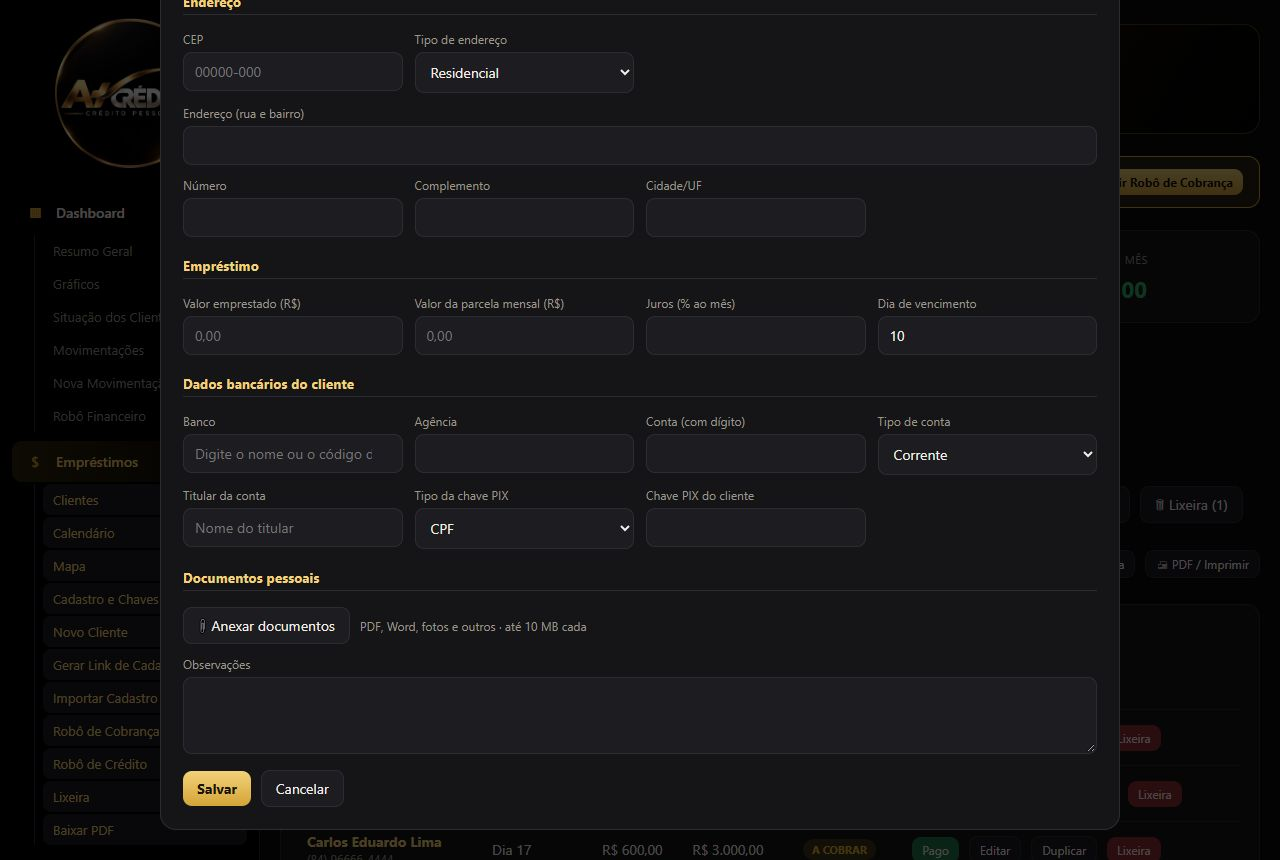
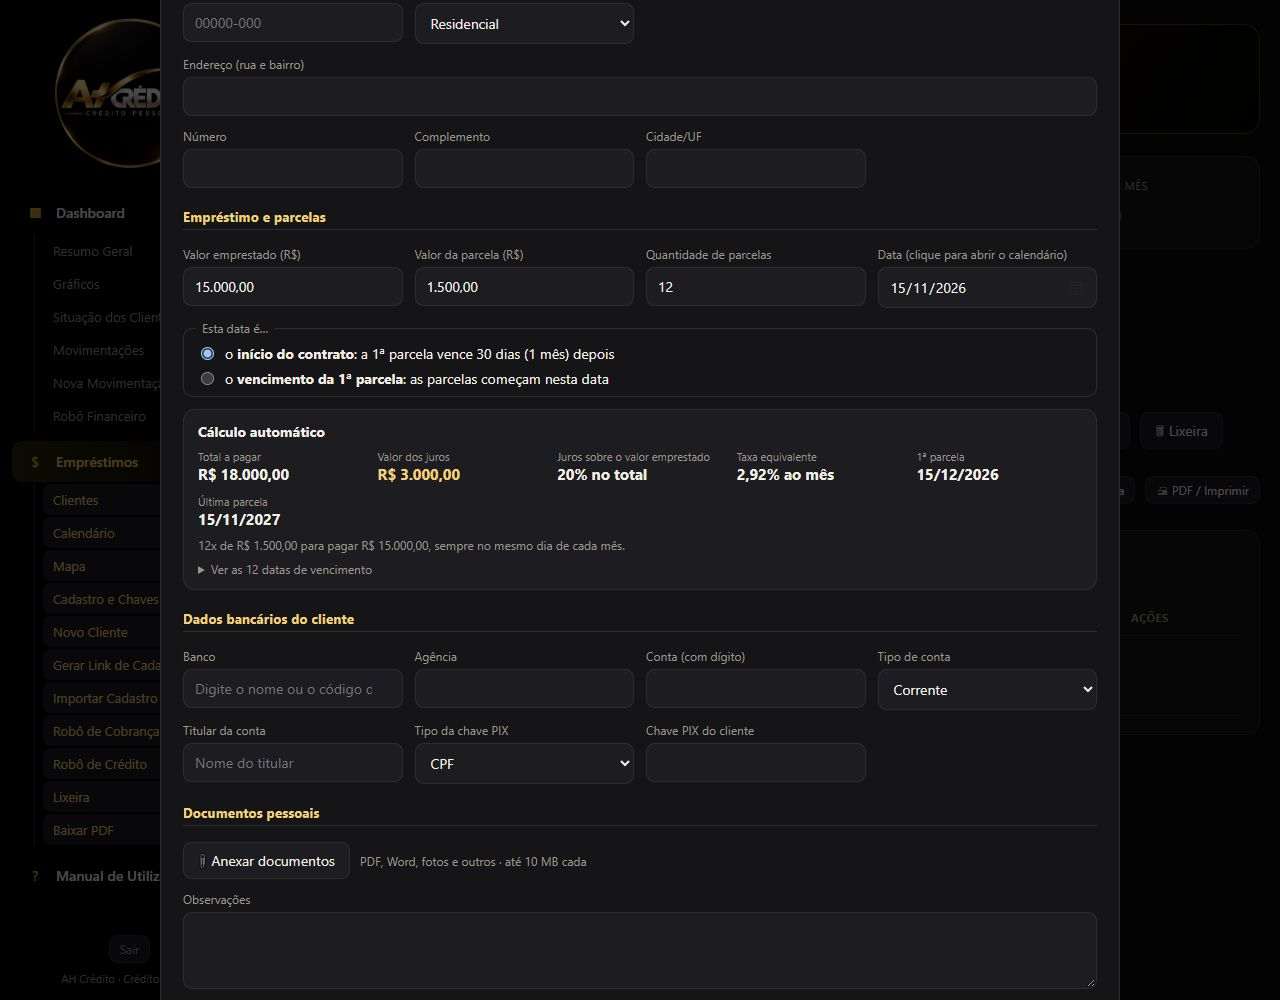
Novo Cliente: quantidade de parcelas, calendário e juros automáticos (componente compartilhado)

diff --git a/src/components/Clientes.jsx b/src/components/Clientes.jsx
@@ -1,12 +1,13 @@
 import { useRef, useState } from 'react'
 import { BancoInput, CepField, Field, Modal, MoneyInput, StatusBadge, ZapLinks } from './ui'
 import { Documentos, ListaDocs, SeletorArquivos, enviarVarios, useDocumentos } from './Documentos'
+import { OpcoesData, PainelCalculo, useCalculo } from './Parcelamento'
 import { useStore } from '../lib/store'
 import { brl, fmtData, moedaCampo, parseMoeda, statusDe, uid } from '../lib/utils'
 
 const VAZIO = {
   nome: '', rg: '', email: '', telefone: '', cpf: '', cep: '', endereco: '', numero: '', complemento: '', cidade: '', tipoEndereco: 'Residencial',
-  valorEmprestado: '', valorParcela: '', jurosPct: '', diaVencimento: '10',
+  valorEmprestado: '', valorParcela: '', jurosPct: '', diaVencimento: '10', parcelas: '', dataBase: '', modoData: 'inicio',
   banco: '', agencia: '', conta: '', tipoConta: 'Corrente', titularConta: '', tipoChavePix: 'CPF', chavePix: '', obs: '',
 }
 const TIPOS_PIX = ['CPF', 'CNPJ', 'Telefone', 'E-mail', 'Aleatória']
@@ -15,7 +16,16 @@ export function DebtorForm({ inicial, onClose }) {
   const { addDebtor, updateDebtor } = useStore()
   const idRef = useRef(inicial?.id || uid())
   const salvoRef = useRef(Boolean(inicial?.id))
-  const [f, setF] = useState(inicial ? { ...VAZIO, ...inicial, valorEmprestado: moedaCampo(inicial.valorEmprestado), valorParcela: moedaCampo(inicial.valorParcela) } : VAZIO)
+  const [f, setF] = useState(inicial
+    ? {
+        ...VAZIO, ...inicial,
+        valorEmprestado: moedaCampo(inicial.valorEmprestado), valorParcela: moedaCampo(inicial.valorParcela),
+        parcelas: inicial.parcelas ? String(inicial.parcelas) : '',
+        dataBase: inicial.dataContrato || inicial.primeiroVencimento || '',
+        modoData: inicial.dataContrato ? 'inicio' : 'parcela',
+      }
+    : VAZIO)
+  const calc = useCalculo({ valor: f.valorEmprestado, parcela: f.valorParcela, n: f.parcelas, data: f.dataBase, modo: f.modoData })
   const [arquivos, setArquivos] = useState([])
   const [enviando, setEnviando] = useState('')
   const [erro, setErro] = useState('')
@@ -27,12 +37,24 @@ export function DebtorForm({ inicial, onClose }) {
   const salvar = async (e) => {
     e.preventDefault()
     setErro('')
+    const temParcelamento = Boolean(f.parcelas || f.dataBase)
+    if (temParcelamento && !calc) return setErro('Para calcular as parcelas, preencha valor emprestado, valor da parcela, quantidade de parcelas e a data (ou apague a quantidade e a data para cadastrar sem parcelamento).')
+    if (temParcelamento && calc.semJuros) return setErro('As parcelas somam menos que o valor emprestado. Confira o valor da parcela.')
+    const { dataBase, modoData, ...resto } = f
     const d = {
-      ...f,
+      ...resto,
       valorEmprestado: parseMoeda(f.valorEmprestado),
       valorParcela: parseMoeda(f.valorParcela),
-      jurosPct: num(f.jurosPct),
-      diaVencimento: Math.min(31, Math.max(1, parseInt(f.diaVencimento) || 1)),
+      ...(temParcelamento
+        ? {
+            parcelas: calc.n, jurosPct: calc.taxaMes, diaVencimento: Number(calc.primeira.slice(8, 10)),
+            primeiroVencimento: calc.primeira, ultimoVencimento: calc.ultima, totalAPagar: calc.total,
+            valorJuros: calc.juros, jurosPctTotal: calc.jurosPctTotal, dataContrato: calc.inicio,
+          }
+        : {
+            parcelas: null, primeiroVencimento: null, ultimoVencimento: null, totalAPagar: null, valorJuros: null, jurosPctTotal: null, dataContrato: null,
+            jurosPct: num(f.jurosPct), diaVencimento: Math.min(31, Math.max(1, parseInt(f.diaVencimento) || 1)),
+          }),
     }
     if (salvoRef.current) updateDebtor(idRef.current, d)
     else { addDebtor({ ...d, id: idRef.current }); salvoRef.current = true }
@@ -65,11 +87,20 @@ export function DebtorForm({ inicial, onClose }) {
           <Field label="Complemento"><input value={f.complemento} onChange={set('complemento')} /></Field>
           <Field label="Cidade/UF"><input value={f.cidade} onChange={set('cidade')} /></Field>
 
-          <h4 className="full sec">Empréstimo</h4>
+          <h4 className="full sec">Empréstimo e parcelas</h4>
           <Field label="Valor emprestado (R$)"><MoneyInput value={f.valorEmprestado} onChange={(v) => setF((x) => ({ ...x, valorEmprestado: v }))} /></Field>
-          <Field label="Valor da parcela mensal (R$)"><MoneyInput value={f.valorParcela} onChange={(v) => setF((x) => ({ ...x, valorParcela: v }))} /></Field>
-          <Field label="Juros (% ao mês)"><input inputMode="decimal" value={f.jurosPct} onChange={set('jurosPct')} /></Field>
-          <Field label="Dia de vencimento"><input type="number" min="1" max="31" value={f.diaVencimento} onChange={set('diaVencimento')} /></Field>
+          <Field label="Valor da parcela (R$)"><MoneyInput value={f.valorParcela} onChange={(v) => setF((x) => ({ ...x, valorParcela: v }))} /></Field>
+          <Field label="Quantidade de parcelas"><input type="number" min="1" max="120" inputMode="numeric" placeholder="Ex.: 12" value={f.parcelas} onChange={set('parcelas')} /></Field>
+          <Field label="Data (clique para abrir o calendário)"><input type="date" value={f.dataBase} onChange={set('dataBase')} /></Field>
+          <div className="full"><OpcoesData modo={f.modoData} onChange={(m) => setF((x) => ({ ...x, modoData: m }))} nome="modoDataCliente" /></div>
+          <div className="full"><PainelCalculo calc={calc} /></div>
+          {!(f.parcelas || f.dataBase) && (
+            <>
+              <Field label="Dia de vencimento"><input type="number" min="1" max="31" value={f.diaVencimento} onChange={set('diaVencimento')} /></Field>
+              <Field label="Juros (% ao mês)"><input inputMode="decimal" value={f.jurosPct} onChange={set('jurosPct')} /></Field>
+              <div className="muted full" style={{ fontSize: 12 }}>Sem parcelamento: informe o dia do vencimento e os juros à mão. Ao preencher a quantidade de parcelas e a data, o vencimento e os juros são calculados sozinhos.</div>
+            </>
+          )}
 
           <h4 className="full sec">Dados bancários do cliente</h4>
           <Field label="Banco"><BancoInput value={f.banco} onChange={(v) => setF((x) => ({ ...x, banco: v }))} /></Field>

diff --git a/src/components/GerarLink.jsx b/src/components/GerarLink.jsx
@@ -1,13 +1,11 @@
-import { useMemo, useState } from 'react'
+import { useState } from 'react'
 import { Field, Modal, MoneyInput, ZapLinks } from './ui'
 import { api } from '../lib/api'
 import { msgCadastro } from '../lib/cadastro'
 import { useStore } from '../lib/store'
 import { brl, fmtData, parseMoeda } from '../lib/utils'
 import { baixarModelo, lerPlanilha } from '../lib/planilha'
-import { calcular } from '../../shared/parcelas'
-
-const pct = (n) => `${String(n).replace('.', ',')}%`
+import { OpcoesData, PainelCalculo, useCalculo } from './Parcelamento'
 
 export default function GerarLink({ onClose }) {
   const [f, setF] = useState({ valor: '', parcela: '', n: '', data: '', modo: 'inicio' })
@@ -17,10 +15,7 @@ export default function GerarLink({ onClose }) {
   const [gerando, setGerando] = useState(false)
   const set = (k) => (e) => setF((x) => ({ ...x, [k]: e.target.value }))
 
-  const calc = useMemo(
-    () => calcular({ valor: parseMoeda(f.valor), parcela: parseMoeda(f.parcela), n: f.n, data: f.data, modo: f.modo }),
-    [f],
-  )
+  const calc = useCalculo({ valor: f.valor, parcela: f.parcela, n: f.n, data: f.data, modo: f.modo })
   const pronto = Boolean(calc) && !calc.semJuros
 
   const gerar = async (e) => {
@@ -54,36 +49,8 @@ export default function GerarLink({ onClose }) {
           <Field label="Data *  (clique para abrir o calendário)">
             <input type="date" value={f.data} onChange={set('data')} required />
           </Field>
-          <fieldset className="opcoes">
-            <legend>Esta data é…</legend>
-            <label><input type="radio" name="modo" checked={f.modo === 'inicio'} onChange={() => setF((x) => ({ ...x, modo: 'inicio' }))} /> o <b>início do contrato</b>: a 1ª parcela vence 30 dias (1 mês) depois</label>
-            <label><input type="radio" name="modo" checked={f.modo === 'parcela'} onChange={() => setF((x) => ({ ...x, modo: 'parcela' }))} /> o <b>vencimento da 1ª parcela</b>: as parcelas começam nesta data</label>
-          </fieldset>
-
-          <div className="calc" aria-live="polite">
-            <b>Cálculo automático</b>
-            {!calc && <div className="muted">Preencha valor, parcela, quantidade e data para ver o total, os juros e as datas.</div>}
-            {calc && calc.semJuros && <div className="neg">As parcelas somam menos que o valor emprestado. Confira o valor da parcela.</div>}
-            {calc && !calc.semJuros && (
-              <>
-                <div className="calc-grade">
-                  <div><small className="muted">Total a pagar</small><b>{brl(calc.total)}</b></div>
-                  <div><small className="muted">Valor dos juros</small><b className="gold">{brl(calc.juros)}</b></div>
-                  <div><small className="muted">Juros sobre o valor emprestado</small><b>{pct(calc.jurosPctTotal)} no total</b></div>
-                  <div><small className="muted">Taxa equivalente</small><b>{pct(calc.taxaMes)} ao mês</b></div>
-                  <div><small className="muted">1ª parcela</small><b>{fmtData(calc.primeira)}</b></div>
-                  <div><small className="muted">Última parcela</small><b>{fmtData(calc.ultima)}</b></div>
-                </div>
-                <div className="muted" style={{ fontSize: 12 }}>{calc.n}x de {brl(calc.parcela)} para pagar {brl(calc.valor)}, sempre no mesmo dia de cada mês.</div>
-                <details>
-                  <summary className="muted" style={{ cursor: 'pointer', fontSize: 12 }}>Ver as {calc.n} datas de vencimento</summary>
-                  <ol className="datas">
-                    {calc.datas.map((d, i) => <li key={d}>{i + 1}ª · {fmtData(d)} · {brl(calc.parcela)}</li>)}
-                  </ol>
-                </details>
-              </>
-            )}
-          </div>
+          <OpcoesData modo={f.modo} onChange={(m) => setF((x) => ({ ...x, modo: m }))} />
+          <PainelCalculo calc={calc} />
 
           {erro && <div className="neg" role="alert">{erro}</div>}
           <button className="btn primary" disabled={gerando || !pronto} style={{ justifyContent: 'center', padding: 11 }}>{gerando ? 'Gerando…' : 'Gerar Novo Link'}</button>

diff --git a/src/components/Parcelamento.jsx b/src/components/Parcelamento.jsx
@@ -1,0 +1,54 @@
+import { useMemo } from 'react'
+import { calcular } from '../../shared/parcelas'
+import { brl, fmtData, parseMoeda } from '../lib/utils'
+
+export const pct = (n) => `${String(n).replace('.', ',')}%`
+
+/** Cálculo do parcelamento a partir dos campos de texto da tela (valor e parcela em formato brasileiro). */
+export function useCalculo({ valor, parcela, n, data, modo }) {
+  return useMemo(
+    () => calcular({ valor: parseMoeda(valor), parcela: parseMoeda(parcela), n, data, modo }),
+    [valor, parcela, n, data, modo],
+  )
+}
+
+/** Escolha do que a data do calendário significa. */
+export function OpcoesData({ modo, onChange, nome = 'modo' }) {
+  return (
+    <fieldset className="opcoes">
+      <legend>Esta data é…</legend>
+      <label><input type="radio" name={nome} checked={modo === 'inicio'} onChange={() => onChange('inicio')} /><span>o <b>início do contrato</b>: a 1ª parcela vence 30 dias (1 mês) depois</span></label>
+      <label><input type="radio" name={nome} checked={modo === 'parcela'} onChange={() => onChange('parcela')} /><span>o <b>vencimento da 1ª parcela</b>: as parcelas começam nesta data</span></label>
+    </fieldset>
+  )
+}
+
+/** Painel "Cálculo automático": total, juros, taxa e datas. */
+export function PainelCalculo({ calc }) {
+  return (
+    <div className="calc" aria-live="polite">
+      <b>Cálculo automático</b>
+      {!calc && <div className="muted">Preencha valor emprestado, valor da parcela, quantidade de parcelas e a data para ver o total, os juros e as datas.</div>}
+      {calc && calc.semJuros && <div className="neg">As parcelas somam menos que o valor emprestado. Confira o valor da parcela.</div>}
+      {calc && !calc.semJuros && (
+        <>
+          <div className="calc-grade">
+            <div><small className="muted">Total a pagar</small><b>{brl(calc.total)}</b></div>
+            <div><small className="muted">Valor dos juros</small><b className="gold">{brl(calc.juros)}</b></div>
+            <div><small className="muted">Juros sobre o valor emprestado</small><b>{pct(calc.jurosPctTotal)} no total</b></div>
+            <div><small className="muted">Taxa equivalente</small><b>{pct(calc.taxaMes)} ao mês</b></div>
+            <div><small className="muted">1ª parcela</small><b>{fmtData(calc.primeira)}</b></div>
+            <div><small className="muted">Última parcela</small><b>{fmtData(calc.ultima)}</b></div>
+          </div>
+          <div className="muted" style={{ fontSize: 12 }}>{calc.n}x de {brl(calc.parcela)} para pagar {brl(calc.valor)}, sempre no mesmo dia de cada mês.</div>
+          <details>
+            <summary className="muted" style={{ cursor: 'pointer', fontSize: 12 }}>Ver as {calc.n} datas de vencimento</summary>
+            <ol className="datas">
+              {calc.datas.map((d, i) => <li key={d}>{i + 1}ª · {fmtData(d)} · {brl(calc.parcela)}</li>)}
+            </ol>
+          </details>
+        </>
+      )}
+    </div>
+  )
+}

diff --git a/src/pages/manualDados.js b/src/pages/manualDados.js
@@ -112,13 +112,16 @@ export const CAPITULOS = [
       'Clique em Novo Cliente (ou use o submenu Novo Cliente).',
       'Em Dados pessoais, preencha o nome (obrigatório), CPF, RG, telefone/WhatsApp e e-mail.',
       'Em Endereço, digite o CEP: ao completar os 8 números, o sistema busca sozinho a rua, o bairro e a cidade. Complete o número e o complemento.',
-      'Em Empréstimo, informe valor emprestado, valor da parcela mensal, juros (% ao mês) e o dia de vencimento. Nos valores em reais, digite só os números: 1000 vira 1.000,00.',
+      'Em Empréstimo e parcelas, informe o valor emprestado, o valor da parcela e a quantidade de parcelas. Nos valores em reais, digite só os números: 1000 vira 1.000,00.',
+      'Clique no campo Data para abrir o calendário e escolha o dia. Marque se a data é o início do contrato (a 1ª parcela vence 1 mês depois) ou o vencimento da 1ª parcela.',
+      'O quadro "Cálculo automático" mostra, sem você digitar nada: total a pagar, valor dos juros, juros em % no total, taxa ao mês, 1ª e última parcela e todas as datas. Exemplo: R$ 15.000,00 em 12x de R$ 1.500,00 dá total de R$ 18.000,00, juros de R$ 3.000,00 (20%) e cerca de 2,92% ao mês. O dia do vencimento também é definido sozinho.',
+      'Se o cliente não tem parcelamento fixo, deixe a quantidade e a data em branco: aparecem os campos Dia de vencimento e Juros (% ao mês) para preencher à mão.',
     ],
     imagens: [
       ['08-novo-cliente-dados.jpg', 'Formulário de novo cliente: dados pessoais e endereço'],
       ['09-novo-cliente-emprestimo.jpg', 'Formulário de novo cliente: seção Empréstimo'],
     ],
-    dica: 'Se o CEP não for encontrado, o sistema avisa e você preenche o endereço à mão.',
+    dica: 'Se o CEP não for encontrado, o sistema avisa e você preenche o endereço à mão. Se as parcelas somarem menos que o valor emprestado, o sistema avisa e não salva até você corrigir.',
   },
   {
     id: 'emp-banco', grupo: 'emprestimos', curto: 'Dados bancários', titulo: 'Dados bancários, PIX e documentos no cadastro',

diff --git a/src/styles.css b/src/styles.css
@@ -175,5 +175,5 @@ button:disabled { opacity: .5; cursor: not-allowed; }
 .calc-grade { display: grid; grid-template-columns: repeat(auto-fit, minmax(150px, 1fr)); gap: 10px 14px; }
 .calc-grade small { display: block; font-size: 11px; }
 .calc-grade b { font-size: 15px; }
-.datas { margin: 6px 0 0 18px; padding: 0; columns: 2; font-size: 12px; font-variant-numeric: tabular-nums; }
+.datas { margin: 6px 0 0; padding: 0; list-style: none; columns: 2; font-size: 12px; font-variant-numeric: tabular-nums; }
 input[type="date"]::-webkit-calendar-picker-indicator { filter: invert(.85); cursor: pointer; }
